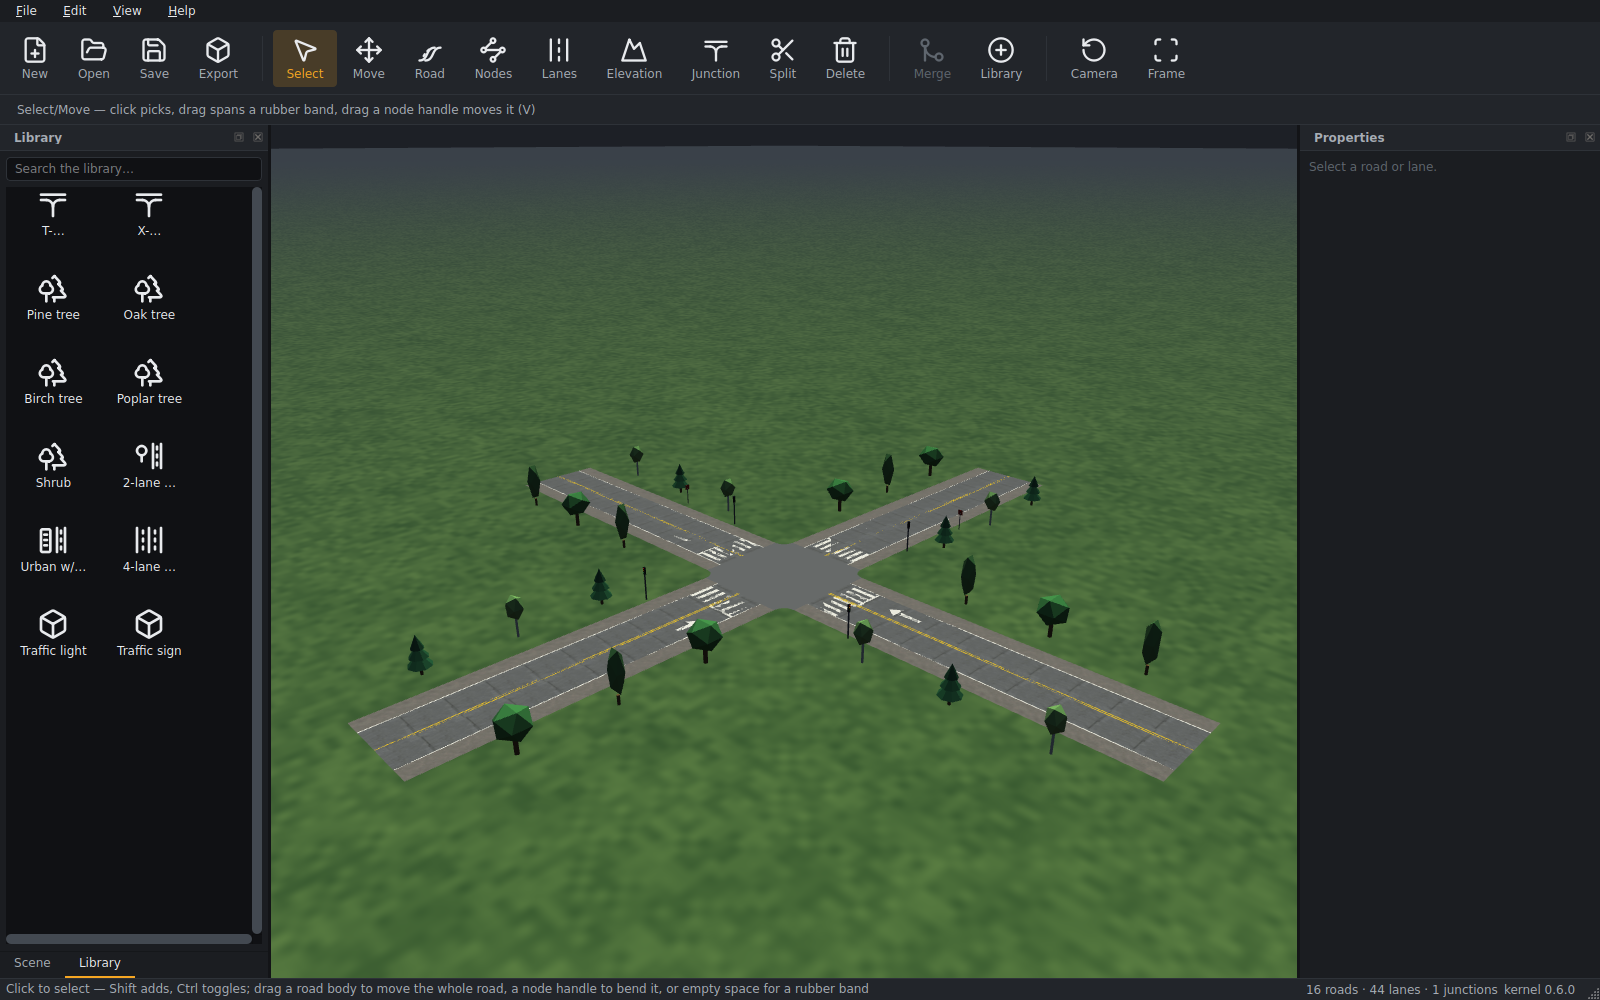
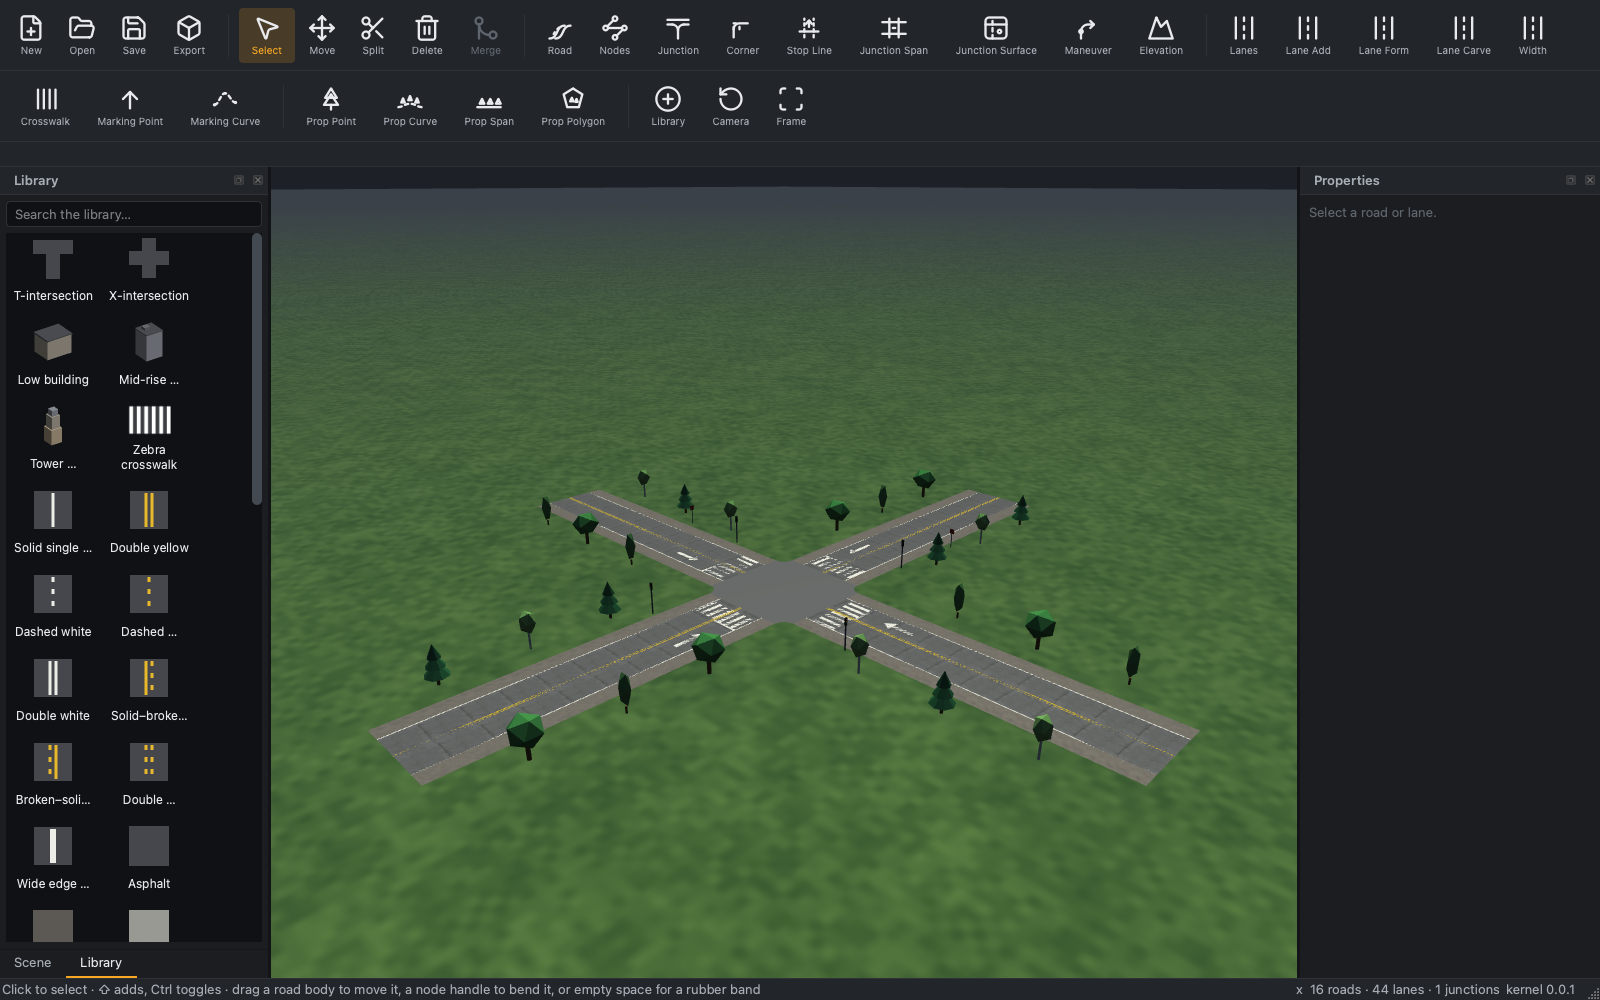
docs(readme): refresh capabilities, hero screenshot, and workflow GIF to current editor (#361)

diff --git a/README.md b/README.md
@@ -18,7 +18,7 @@ validates, junctions carry coherent lane logic, and meshes are watertight and
 robust. A C++20 kernel does the work; a Qt 6 Widgets editor and a Python
 package sit on top ([architecture](docs/architecture/overview.md)).
 
-![The RoadMaker editor: the GS-1 urban intersection — a signalized four-arm
+![The RoadMaker editor: an urban intersection — a signalized four-arm
 junction with crosswalks, stop lines, lane arrows, traffic lights, and street
 trees — in the graphite-amber theme with the Library catalogue
 open](docs/user-guide/img/gs1_hero.png)
@@ -72,7 +72,7 @@ RoadMaker tessellates a network into simulation-ready 3D meshes and writes:
 - **glTF 2.0** (`.glb`) — binary, self-contained, always available.
 - **OpenUSD** (`.usda`) — ASCII only, in editor/optional builds configured with
   `-DRM_BUILD_USD=ON` (prebuilt release packages include it; Python wheels ship
-  it off). `.usdc`/`.usdz` **crate** output is intentionally unsupported in M2 —
+  it off). `.usdc`/`.usdz` **crate** output is intentionally unsupported —
   every USD consumer (usdview, Omniverse/Isaac Sim, Blender) reads `.usda`. See
   [docs/design/m2/04_usd_export.md](docs/design/m2/04_usd_export.md).
 
@@ -100,10 +100,21 @@ sprints — it becomes `0.1.0` only at the release itself.
 
 - ASAM OpenDRIVE 1.8/1.9 read/write/validate, clothoid geometry, watertight
   simulation-ready meshes, structured diagnostics
-- Interactive editing: road/lane/elevation/junction tools with full
-  undo/redo, T-junctions, topology editing, junction 3D surfaces
-- Textured viewport with props and signals, dark professional theme,
-  welcome screen, Library panel with drag-and-drop creation
+- Road-plan authoring: create/extend roads with junction formation on
+  crossings, the full lane tool suite (lane type & direction, width, add,
+  form, carve), road styles as draggable assets, enclosed-area ground
+  surfaces
+- Junction control: stop lines, locked/custom junctions (membership, merge,
+  span junctions), per-corner radius and materials, interior surface
+  control, editable maneuver roads with turn types
+- Markings: crosswalks, marking curve/point tools, arrow stencils, boundary
+  marking assets, per-instance materials
+- Props & assets: Library panel with drag-and-drop creation, four prop
+  placement tools plus prop sets, per-instance sizing persisted through
+  OpenDRIVE object dimensions
+- Editor: orbit-pivot camera with framing and cardinal views, scrub-editable
+  Attributes pane, 2D profile editor, in-app help with F1 context lookup,
+  full undo/redo, dark professional theme
 - glTF 2.0 + OpenUSD export, esmini round-trip CI gate, Python bindings
 
 ## License

diff --git a/ASSETS_LICENSES.md b/ASSETS_LICENSES.md
@@ -151,6 +151,6 @@ models, fonts, images). Policy — see [`docs/standards/assets.md`](docs/standar
 | `docs/user-guide/img/junction.png` | original work (this repository), editor screenshot | RoadMaker contributors | MIT | 2026-07-13 |
 | `docs/user-guide/img/elevation.png` | original work (this repository), editor screenshot | RoadMaker contributors | MIT | 2026-07-13 |
 | `docs/user-guide/img/library.png` | original work (this repository), editor screenshot | RoadMaker contributors | MIT | 2026-07-13 |
-| `docs/user-guide/img/workflow.gif` | original work (this repository), editor screen recording | RoadMaker contributors | MIT | 2026-07-13 |
-| `docs/user-guide/img/gs1_hero.png` | original work (this repository), editor screenshot rendered by CI (`visual-artifacts`) | RoadMaker contributors | MIT | 2026-07-15 |
+| `docs/user-guide/img/workflow.gif` | original work (this repository), scripted frame sequence via `scripts/editor_screenshot.py` (`--drag-ghost`/`--drop-library`) | RoadMaker contributors | MIT | 2026-07-21 |
+| `docs/user-guide/img/gs1_hero.png` | original work (this repository), editor screenshot via `scripts/editor_screenshot.py` (same command as CI `visual-artifacts`) | RoadMaker contributors | MIT | 2026-07-21 |
 | `docs/roadmap/archive/2026-07-pre-reset/golden_scenes/img/gs1_baseline_v0.6.0.png` | original work (this repository), viewport render from the GS-1 fixed camera, rendered by CI (`visual-artifacts`) | RoadMaker contributors | MIT | 2026-07-15 |